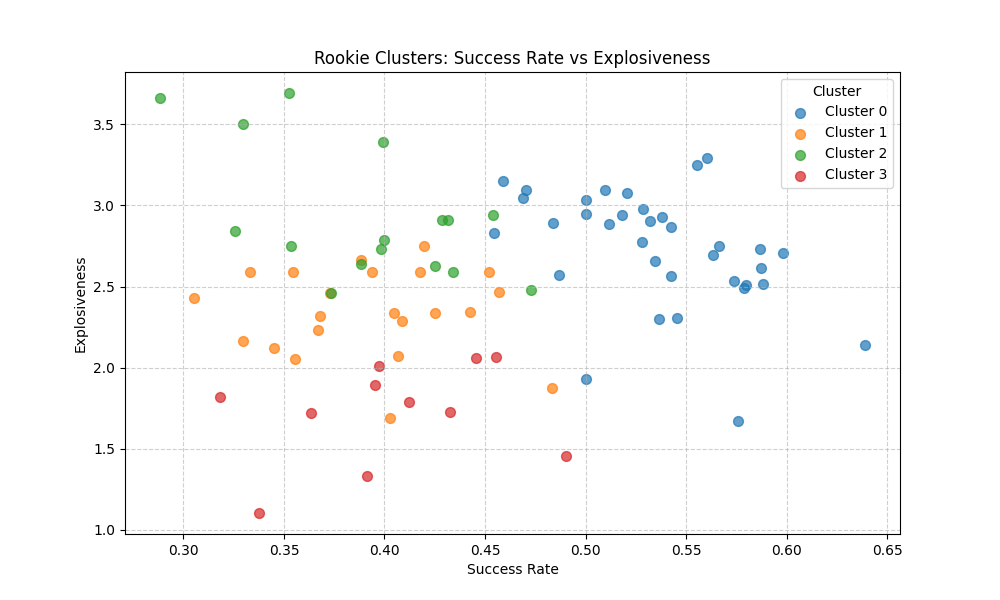
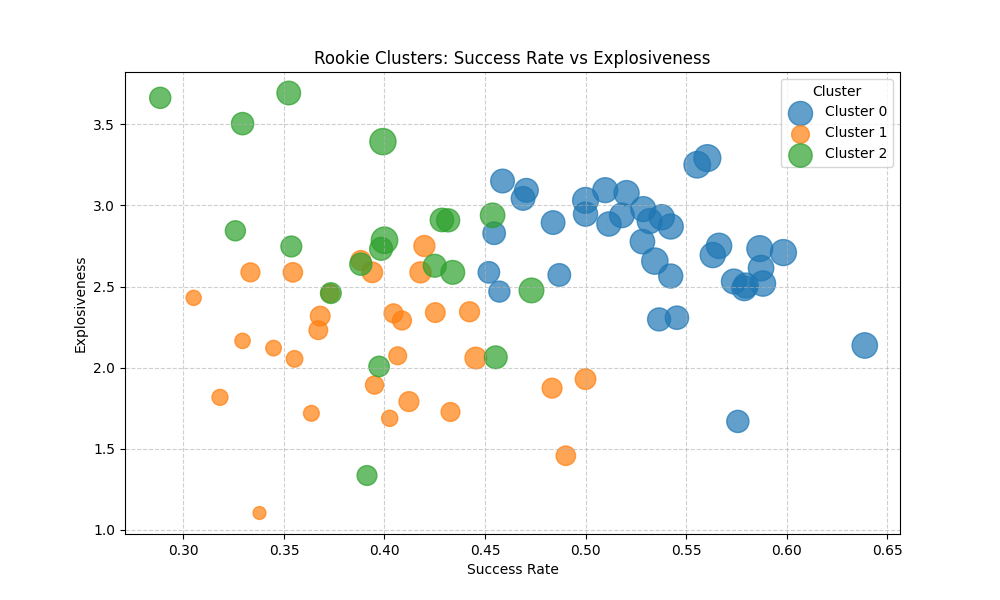
idk

diff --git a/src/visualization.py b/src/visualization.py
@@ -136,7 +136,8 @@ def plot_css_clustered():
     for cluster in unique_clusters:
         cluster_data = df[df['cluster'] == cluster]
         plt.scatter(cluster_data['success_rate'], cluster_data['explosiveness'], 
-                    label=f'Cluster {cluster}', alpha=0.7, s=50, 
+                    label=f'Cluster {cluster}', alpha=0.7, 
+                    s= cluster_data['CSS_Score'] * _SIZE_SCALE, 
                     color=cluster_color_map[cluster])
 
     plt.title('Rookie Clusters: Success Rate vs Explosiveness')

diff --git a/src/model.py b/src/model.py
@@ -3,7 +3,7 @@ from src.pipeline import run
 
 css_df = run()
 X = css_df[["success_rate_scaled", "explosiveness_scaled", "reliability_scaled"]]
-kmeans = KMeans(n_clusters=4, random_state=42).fit(X)
+kmeans = KMeans(n_clusters=3, random_state=42).fit(X)
 css_df["cluster"] = kmeans.labels_
 
 css_df.to_csv('outputs/css_df_clustered.csv')